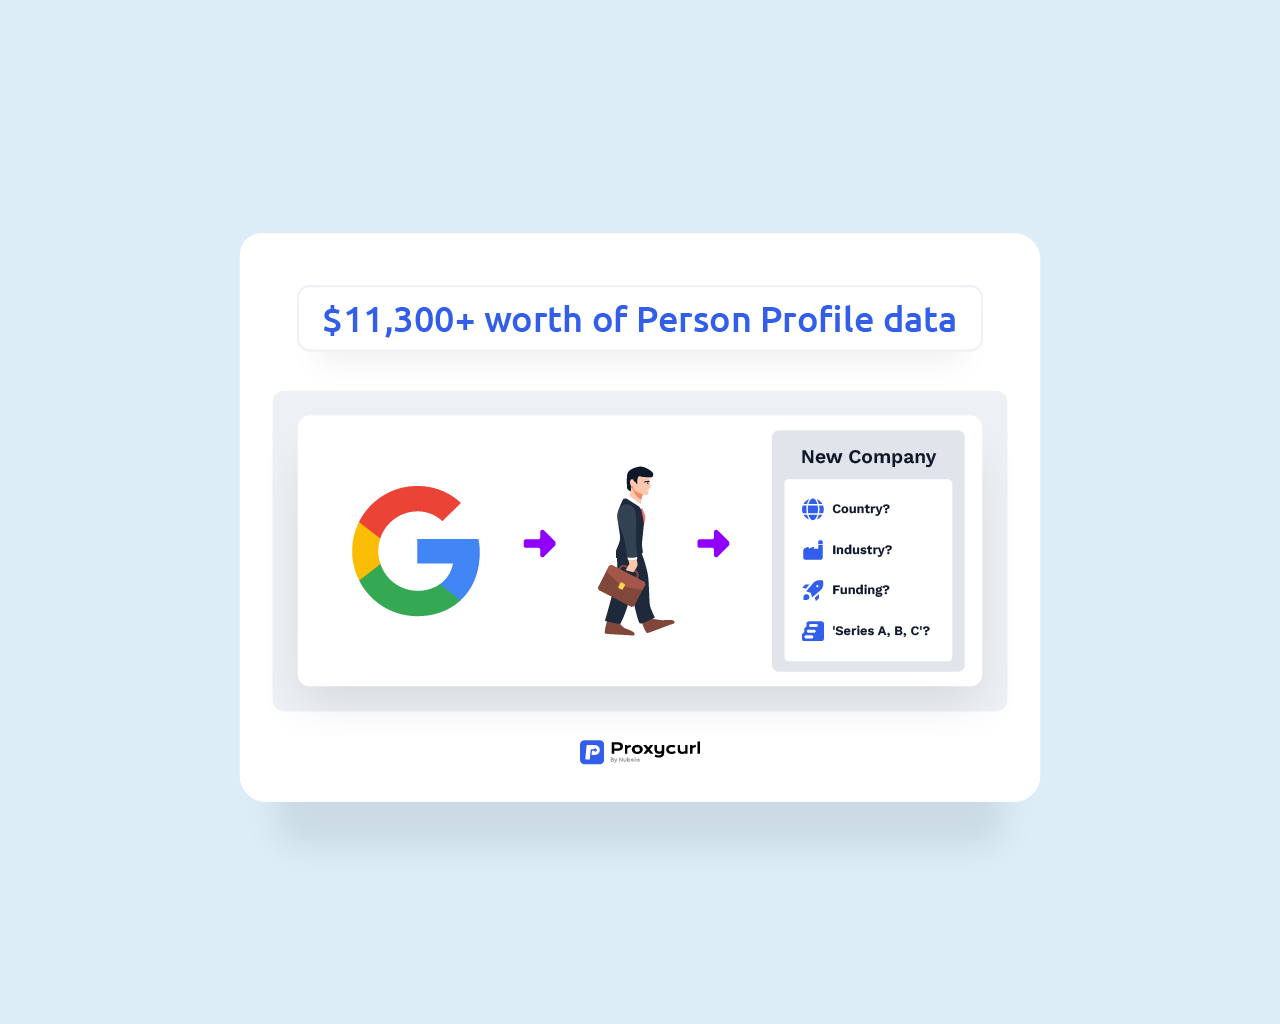
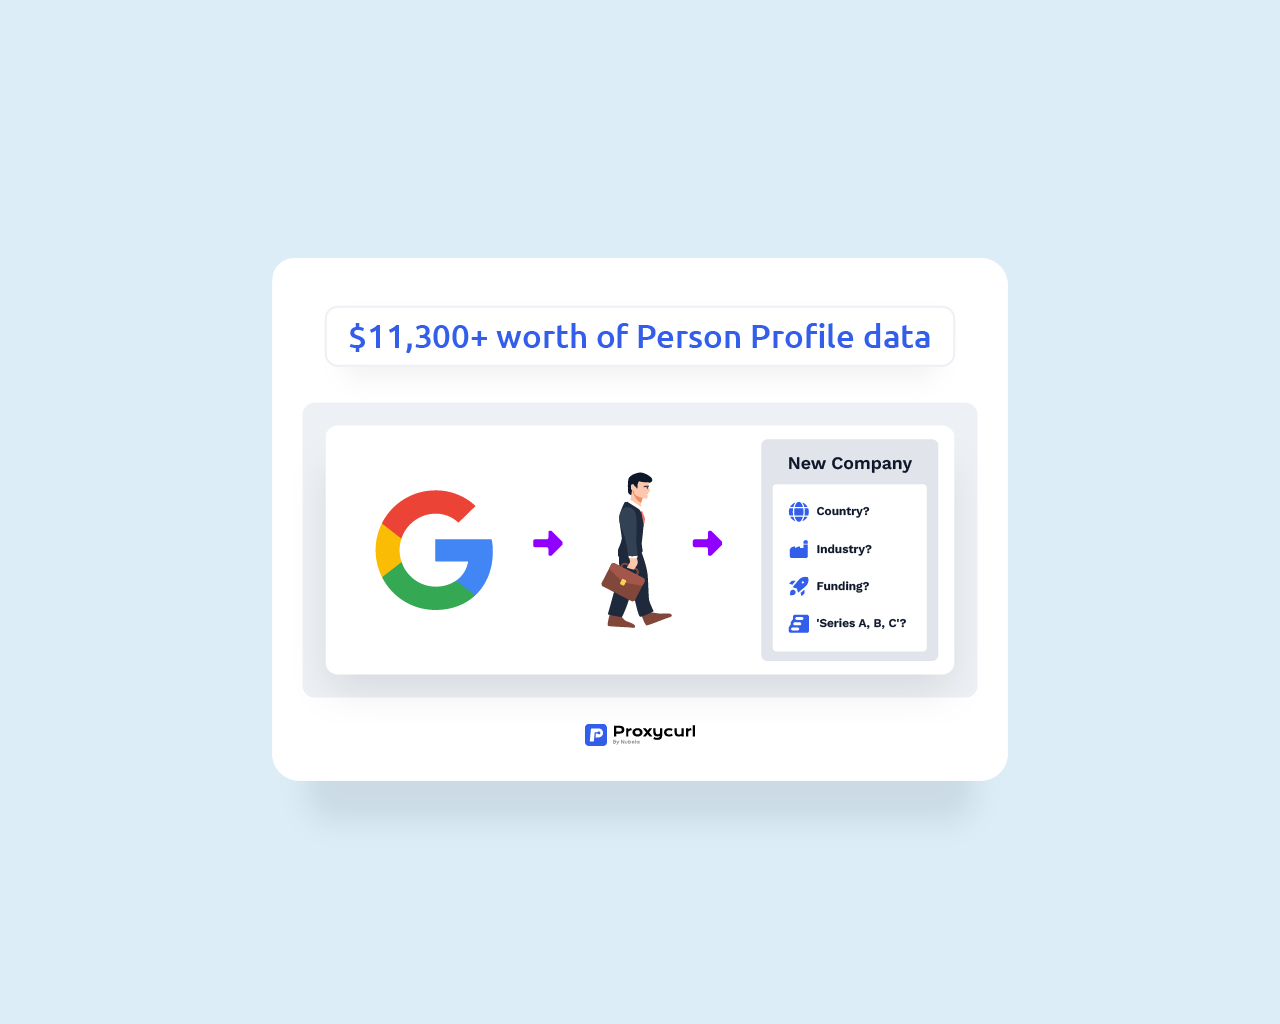
update the illustration

diff --git a/proxycurl-free-tools.html b/proxycurl-free-tools.html
@@ -454,10 +454,10 @@
 
             </div>
             <div class="col-12 col-md-5 order-md-2 bg-cover card-img-right"
-              style="background-image: url(assets/img/illustrations/illustrationex.png)" href="#!">
+              style="background-image: url(assets/img/illustrations/Proxycurl-free-tools_2_4_.png)" href="#!">
 
               <!-- Image (placeholder) -->
-              <img src="assets/img/illustrations/illustrationex.png" alt="..."
+              <img src="assets/img/illustrations/Proxycurl-free-tools_2_4_.png" alt="..."
                 class="img-fluid d-md-none invisible">
 
             </div>
